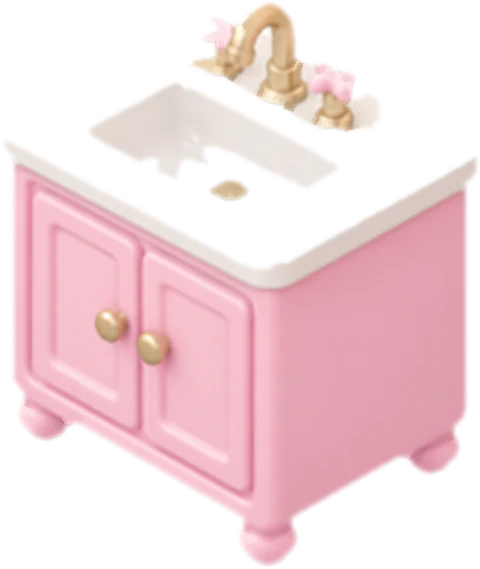
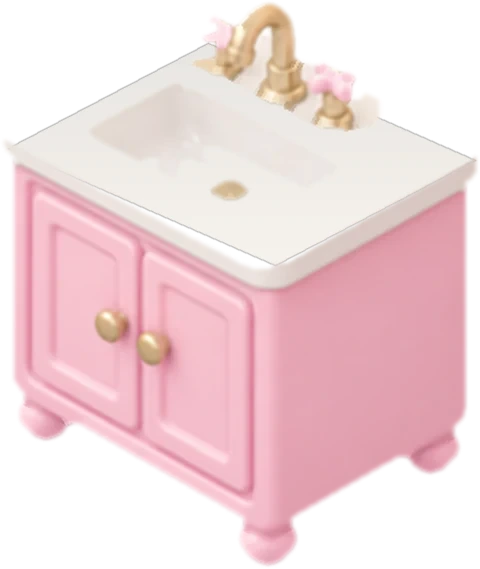
My Koala house fixes (v146)
- White bookshelf picture mirrored to match its footprint; refit to the floor
- Vanity top rebuilt (was see-through); dresser is now a 1x1 piece; desk/TV stand top heights corrected
- Small props can be dropped onto desks/tables/shelf boards (pointer aims at the raised surface)
- Garage: cars sheared to the floor slope, shoe cabinet drawn as a true isometric box with shoes inside,
  shelf is now a drawn isometric rack with boards that hold the boxes

Claude-Session: https://claude.ai/code/session_01PRHybDNjeetHDn4kd4ub9X

diff --git a/public/js/koala-house.js b/public/js/koala-house.js
@@ -179,8 +179,7 @@
   wardrobe("wardrobeWood", ["나무 옷장", "Wood Wardrobe"], "#b9814a", 0);
   wardrobe("wardrobeMint", ["민트 옷장", "Mint Wardrobe"], "#8fd1bd", 90);
   ["wardrobeWood", "wardrobeMint"].forEach((id) => { D[id].subKind = "clothes"; });   // the Koala's clothes live in here (see KoalaHouse UI: "Inside")
-  add("dresser", "furniture", ["서랍장", "Dresser"], 2, 1, 0, [B(0, 0, 0, 2, 1, 40, "#d9a066"), B(0.1, 1.0, 5, 0.86, 0.03, 14, "#e8b887"), B(1.04, 1.0, 5, 0.86, 0.03, 14, "#e8b887"), B(0.1, 1.0, 22, 0.86, 0.03, 14, "#e8b887"), B(1.04, 1.0, 22, 0.86, 0.03, 14, "#e8b887"),
-    B(0.45, 1.03, 10, 0.16, 0.03, 3, "#8a5a3a"), B(1.4, 1.03, 10, 0.16, 0.03, 3, "#8a5a3a"), B(0.45, 1.03, 27, 0.16, 0.03, 3, "#8a5a3a"), B(1.4, 1.03, 27, 0.16, 0.03, 3, "#8a5a3a")], { topH: 40 });
+  add("dresser", "furniture", ["서랍장", "Dresser"], 1, 1, 0, [B(0, 0, 0, 1, 1, 40, "#d9a066"), B(0.08, 1.0, 5, 0.84, 0.03, 14, "#e8b887"), B(0.08, 1.0, 22, 0.84, 0.03, 14, "#e8b887"), B(0.4, 1.03, 10, 0.2, 0.03, 3, "#8a5a3a"), B(0.4, 1.03, 27, 0.2, 0.03, 3, "#8a5a3a")], { topH: 40 });
   add("tvStand", "furniture", ["TV와 장", "TV Stand"], 3, 1, 100, [B(0, 0.1, 0, 3, 0.8, 18, "#2f343c"), B(0.12, 0.98, 4, 1.2, 0.03, 10, "#4a5260"), B(1.68, 0.98, 4, 1.2, 0.03, 10, "#4a5260"), B(1.3, 0.4, 18, 0.4, 0.2, 5, "#1e2228"),
     B(0.2, 0.42, 22, 2.6, 0.1, 54, "#1e2228"), B(0.3, 0.52, 27, 2.4, 0.03, 44, "#7fb6e8"), B(0.45, 0.55, 40, 0.9, 0.02, 18, "#a8d4f5")]);
   add("fridge", "furniture", ["냉장고", "Fridge"], 1, 1, 120, [B(0, 0, 0, 1, 1, 104, "#eef1f3"), B(0, 1.0, 62, 1, 0.03, 2, "#9aa6ae"), B(0.82, 1.03, 70, 0.07, 0.03, 24, "#9aa6ae"), B(0.82, 1.03, 30, 0.07, 0.03, 22, "#9aa6ae")]);
@@ -264,7 +263,7 @@
   ["shelfWood", "shelfWhite"].forEach((id) => { D[id].act = "read"; });
   ["plantBig", "cactus", "palm", "flowerBed", "tulips", "bush"].forEach((id) => { D[id].act = "water"; });
   // Flat-topped furniture can carry small things (the lamps, vases, toys... and the cactus). topH = height of the top, in px of the scene.
-  const TOPS = { bedBlue: 41, bedPink: 41, bedMint: 41, deskWood: 38, deskWhite: 38, deskBlue: 38, counter: 42, vanity: 65, tvStand: 36, shelfWood: 69, shelfWhite: 69, wardrobeWood: 82, wardrobeMint: 81, fridge: 80, piano: 56, toybox: 20 };
+  const TOPS = { bedBlue: 41, bedPink: 41, bedMint: 41, deskWood: 38, deskWhite: 38, deskBlue: 31, counter: 42, vanity: 65, tvStand: 28, shelfWood: 69, shelfWhite: 69, wardrobeWood: 82, wardrobeMint: 81, fridge: 80, piano: 56, toybox: 20 };
   Object.keys(TOPS).forEach((id) => { if (D[id]) D[id].topH = TOPS[id]; });
   if (D.cactus) D.cactus.stack = true;
   /* ---- garage things (only offered in a garage room): cars, a shelf to put boxes on, a tool box, storage boxes, a shoe cabinet ---- */
@@ -278,7 +277,7 @@
   gar("carSuvWhite", ["하얀 SUV", "White SUV"], 4, 2, 340, carParts(4, 2, "#f4f1ea", 20));
   gar("carUteOrange", ["주황 유트", "Orange Ute"], 4, 2, 320, carParts(4, 2, "#e8873a", 14));
   gar("carUteGrey", ["회색 유트", "Grey Ute"], 4, 2, 320, carParts(4, 2, "#6d747c", 14));
-  gar("garageShelf", ["차고 선반", "Garage Shelf"], 2, 2, 80, [[0, 0], [1.9, 0], [0, 1.9], [1.9, 1.9]].map((p) => B(p[0], p[1], 0, 0.1, 0.1, 90, "#4a5560")).concat([20, 44, 68, 86].map((z) => B(0, 0, z, 2, 2, 4, "#c99a63"))), { topH: 90, tiers: [90, 66, 42, 18] });
+  gar("garageShelf", ["차고 선반", "Garage Shelf"], 2, 2, 80, [[0.02, 0.02], [1.88, 0.02], [0.02, 1.88], [1.88, 1.88]].map((p) => B(p[0], p[1], 0, 0.1, 0.1, 94, "#58646e")).concat([20, 44, 68, 86].map((z) => B(0, 0, z, 2, 2, 4, "#c99a63"))), { topH: 90, tiers: [90, 72, 48, 24] });
   gar("toolbox", ["공구함", "Tool Box"], 1, 1, 45, [B(0.1, 0.25, 0, 0.8, 0.5, 20, "#d94a3d"), B(0.1, 0.25, 20, 0.8, 0.5, 4, "#b83a30"), B(0.3, 0.4, 24, 0.4, 0.06, 6, "#999")], { stack: true, subKind: "tools" });
   gar("contL", ["큰 수납함", "Large Container"], 1, 1, 30, [B(0.05, 0.1, 0, 0.9, 0.8, 22, "#4f86d6"), B(0, 0.05, 22, 1, 0.9, 4, "#3f6fb8")], { stack: true });
   gar("contM", ["중간 수납함", "Medium Container"], 1, 1, 22, [B(0.15, 0.2, 0, 0.7, 0.6, 16, "#4f9a5a"), B(0.1, 0.15, 16, 0.8, 0.7, 3, "#3f8248")], { stack: true });
@@ -365,7 +364,31 @@
     m = ((m | 0) % 4 + 4) % 4;
     return m === 2 ? [0, -TUCK] : m === 3 ? [-TUCK, 0] : [0, 0];
   }
+  // The shoe cabinet is drawn as a true isometric box: the front picture is stretched onto the right-hand face and the side onto the left-hand face
+  const CAB = { z0: 6, z1: 58, front: [[70, 38], [155, 25], [155, 152], [70, 165]], side: [[37, 32], [70, 40], [70, 165], [37, 157]] };
+  function cabMap() {
+    const dz = CAB.z1 - CAB.z0;
+    const F = { a: 32 / 85, d: dz / 127 }; F.b = (-16 - (-13) * F.d) / 85; F.e = -(F.a * 70); F.f = (32 - CAB.z1) - (F.b * 70 + F.d * 38);
+    const L = { a: 32 / 33, d: dz / 126 }; L.b = (16 - 8 * L.d) / 33; L.e = -32 - L.a * 37; L.f = (16 - CAB.z1) - (L.b * 37 + L.d * 32);
+    return { F, L };
+  }
+  function cabinetSvg(m, noSh) {
+    const { F, L } = cabMap(), tex = MANIFEST["shoeCabinet@tex"].src, mir = !!(m & 1);
+    const poly = (q) => q.map((p) => p.join(",")).join(" ");
+    const mat = (T) => `matrix(${T.a.toFixed(4)} ${T.b.toFixed(4)} 0 ${T.d.toFixed(4)} ${T.e.toFixed(2)} ${T.f.toFixed(2)})`;
+    const z1 = CAB.z1, top = `<polygon points="0,${-z1} 32,${16 - z1} 0,${32 - z1} -32,${16 - z1}" fill="#f4f2ee" stroke="#d9d5cc" stroke-width="1" stroke-linejoin="round"/>`;
+    const legs = [[-28, 15], [0, 30], [28, 15]].map((q) => `<path d="M${q[0]} ${q[1]}v${-CAB.z0 - 2}" stroke="#ebe7df" stroke-width="5" stroke-linecap="round"/>`).join("");
+    const sh = noSh ? "" : `<ellipse cx="0" cy="18" rx="30" ry="14" fill="#3b2a1a" opacity=".10"/><ellipse cx="0" cy="18" rx="21" ry="10" fill="#3b2a1a" opacity=".12"/>`;
+    const uid = "cab" + (mir ? "m" : "n");
+    const g = `${sh}${legs}<defs><clipPath id="${uid}f"><polygon points="${poly(CAB.front)}"/></clipPath><clipPath id="${uid}s"><polygon points="${poly(CAB.side)}"/></clipPath></defs>
+      <g transform="${mat(L)}"><g clip-path="url(#${uid}s)"><image href="${tex}" width="200" height="200"/></g></g>
+      <g transform="${mat(F)}"><g clip-path="url(#${uid}f)"><image href="${tex}" width="200" height="200"/></g></g>${top}`;
+    const sx = (x) => (mir ? -x : x);
+    lastGeom = { cab: true, mir, slot: (x, y) => [sx(F.a * x + F.e), F.b * x + F.d * y + F.f] };
+    return mir ? `<g transform="scale(-1 1)">${g}</g>` : g;
+  }
   function pictureSvg(id, o, m, noSh, open) {
+    if (id === "shoeCabinet" && MANIFEST["shoeCabinet@tex"] && MANIFEST["shoeCabinet@tex"].src) return cabinetSvg(m, noSh);
     const e = open && !(m & 2) && MANIFEST[id + "@o"] || (m & 2) && MANIFEST[id + "@b"] || MANIFEST[id];   // turned to face away (m = 2, 3): the picture from behind, when there is one
     if (!e || !e.src) return "";
     const w = e.wpx || 120, h = w * (e.ratio || 1), ax = e.ax != null ? e.ax : 0.5, ay = e.ay != null ? e.ay : 0.85;
@@ -375,7 +398,10 @@
     lastGeom = { cx, cy, w, h, x: cx - w * ax, y: cy - h * ay, mir };
     const rx = (o.w + o.d) * 32 * 0.33;
     const sh = noSh ? "" : `<ellipse cx="${cx}" cy="${cy + (o.w + o.d) * 2}" rx="${rx}" ry="${rx * 0.5}" fill="#3b2a1a" opacity=".10"/><ellipse cx="${cx}" cy="${cy + (o.w + o.d) * 2}" rx="${rx * 0.7}" ry="${rx * 0.35}" fill="#3b2a1a" opacity=".12"/>`;
-    return sh + `<image href="${e.src}" x="${cx - w * ax}" y="${cy - h * ay}" width="${w}" height="${h}"${mir ? ` transform="translate(${cx * 2} 0) scale(-1 1)"` : ""} preserveAspectRatio="xMidYMid meet"/>`;
+    // shear: a picture drawn from a flatter camera has its long side at a shallower slope than the floor lines; tilt it so that a car does not look nose-up
+    const sk = e.shear ? (mir ? -e.shear : e.shear) : 0;
+    const tf = (sk ? `translate(${cx} ${cy}) matrix(1 ${sk} 0 1 0 0) translate(${-cx} ${-cy})` : "") + (mir ? `${sk ? " " : ""}translate(${cx * 2} 0) scale(-1 1)` : "");
+    return sh + `<image href="${e.src}" x="${cx - w * ax}" y="${cy - h * ay}" width="${w}" height="${h}"${tf ? ` transform="${tf}"` : ""} preserveAspectRatio="xMidYMid meet"/>`;
   }
   /* ---- things inside furniture (sub-items) ---- */
   const BOOKCOL = ["#e66a5a", "#5b8fd0", "#68b57c", "#f2c94c", "#9a7be0", "#ef8fb0", "#4fb3b3", "#e0793a"];
@@ -441,6 +467,10 @@
       return sub.slice(0, 6).map((id, k) => { const [x, y] = at(0.22 + (k % 3) * 0.28, 0.08 - Math.floor(k / 3) * 0.22); return subMark(id, x, y, g.w * 0.3); }).join("");
     }
     if (def.subKind === "shoes") {   // shoes standing in the three cubbies of the cabinet
+      if (g.cab) {
+        const SX = [88, 125], SY = [74, 113, 152];
+        return sub.slice(0, 5).map((id, k) => { const [x, y] = g.slot(SX[k % 2] + (k === 4 ? 0 : 0), SY[Math.floor(k / 2)]); return subMark(id, x, y, 19); }).join("");
+      }
       const SL = [[0.44, 0.31], [0.7, 0.28], [0.44, 0.54], [0.7, 0.51], [0.44, 0.76]];
       return sub.slice(0, 5).map((id, k) => { const [x, y] = at(SL[k][0], SL[k][1]); return subMark(id, x, y, g.w * 0.27); }).join("");
     }

diff --git a/public/js/koala-house-ui.js b/public/js/koala-house-ui.js
@@ -848,11 +848,25 @@
       Object.assign(drag.piece, wallTarget(p.x, p.y, d, room));
       drag.valid = !wallOverlap(st, drag.piece, drag.uid);
     } else {
-      const g = cellOf(p.x, p.y + (drag.fromPanel ? 20 : 0)), f = H.footprint(drag.piece);
-      drag.piece.c = Math.round(drag.fromPanel ? g.c - f.w / 2 : g.c - drag.grab.c);
-      drag.piece.r = Math.round(drag.fromPanel ? g.r - f.d / 2 : g.r - drag.grab.r);
+      const f = H.footprint(drag.piece);
+      const aim = (lift) => {   // the cell under the pointer when the pointer is on a surface `lift` high
+        const g = cellOf(p.x, p.y + lift + (drag.fromPanel ? 20 : 0));
+        drag.piece.c = Math.round(drag.fromPanel ? g.c - f.w / 2 : g.c - drag.grab.c);
+        drag.piece.r = Math.round(drag.fromPanel ? g.r - f.d / 2 : g.r - drag.grab.r);
+      };
+      aim(0);
       if (drag.koala) { const c = drag.piece.c, r = drag.piece.r; drag.valid = koalaCellFree(c, r) || !!H.seatAt(st, c, r) || !!actAt(st, c, r) || !!drag.under; }
-      else { const res = H.canPlace(room, st, drag.piece, drag.uid); drag.valid = res.ok; if (res.ok) drag.piece.z = res.z; }
+      else {
+        let res = null;
+        if (d && d.stack) {   // small things: first look for a table / desk / shelf board under the pointer (its top is above the floor)
+          const lifts = [];
+          st.items.forEach((o) => { const od = H.D[o.id]; if (o.uid !== drag.uid && od && od.topH && !od.stack) (od.tiers || [od.topH]).forEach((z) => { if (!lifts.includes(z)) lifts.push(z); }); });
+          lifts.sort((a, b) => b - a);
+          for (const z of lifts) { aim(z - 6); const r2 = H.canPlace(room, st, drag.piece, drag.uid); if (r2.ok && r2.z > 0) { res = r2; break; } }
+        }
+        if (!res) { aim(0); res = H.canPlace(room, st, drag.piece, drag.uid); }
+        drag.valid = res.ok; if (res.ok) drag.piece.z = res.z;
+      }
     }
     const gh = ses.root.querySelector(".kh-ghost");
     if (gh) gh.innerHTML = ghostFor(drag);

diff --git a/public/sw.js b/public/sw.js
@@ -3,7 +3,7 @@
      shows up immediately; the cached copy is used only when offline.
    - /api/* is never cached (logins, shared words, sync always go to the server).
    - Google Fonts: stale-while-revalidate. Bump CACHE when the list changes. */
-const CACHE = "koala-study-v145";
+const CACHE = "koala-study-v146";
 const PRECACHE = [
   "/", "/index.html", "/css/style.css", "/css/themes.css", "/css/admin.css", "/js/app.js", "/js/support.js",
   "/js/faq.js", "/js/admin-cs.js", "/js/koala-core.js", "/js/quiz-core.js", "/js/koala-art.js", "/js/koala-house.js", "/js/koala-house-ui.js", "/css/koala-house.css", "/js/words.js", "/js/words_ko.js",
